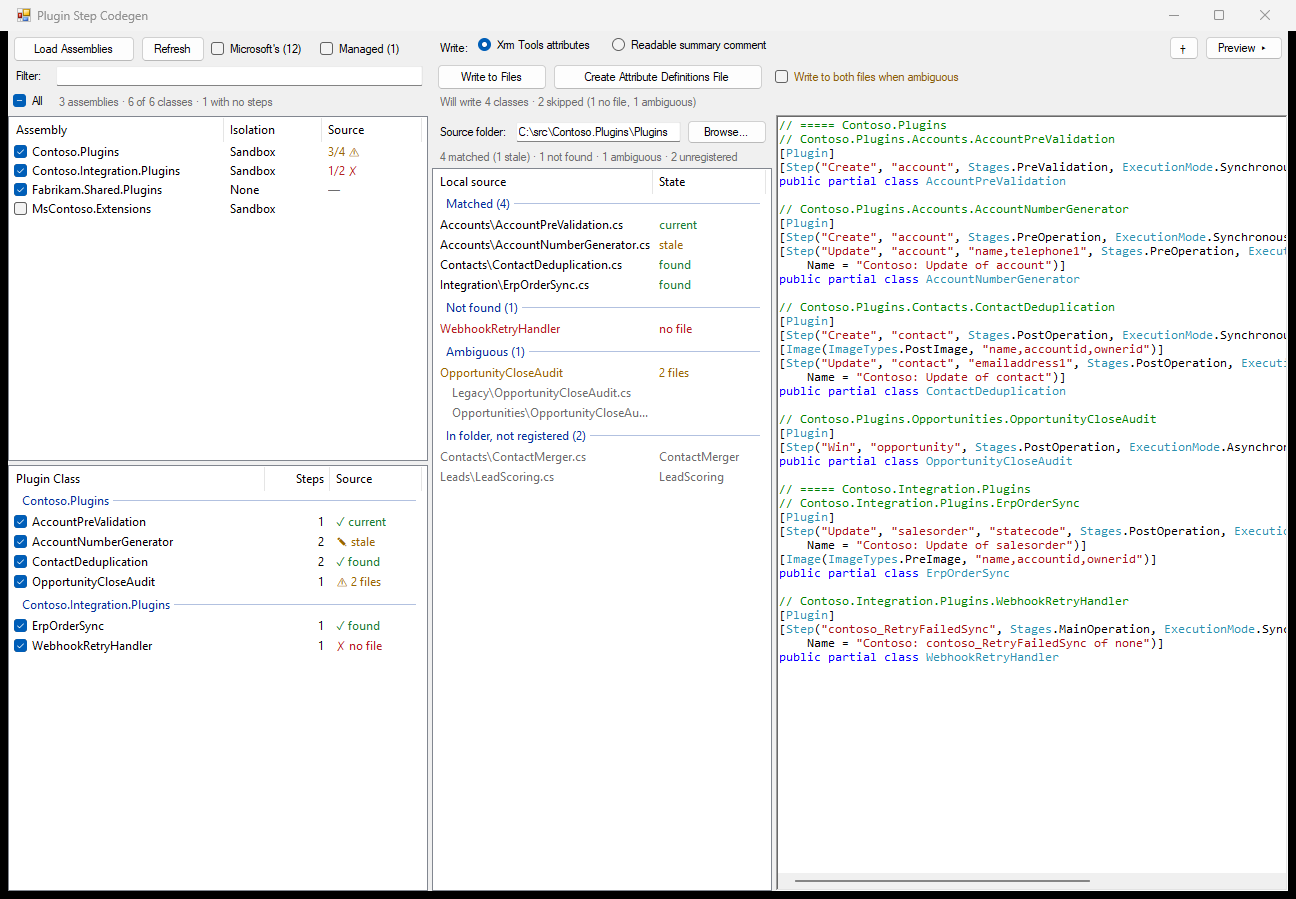
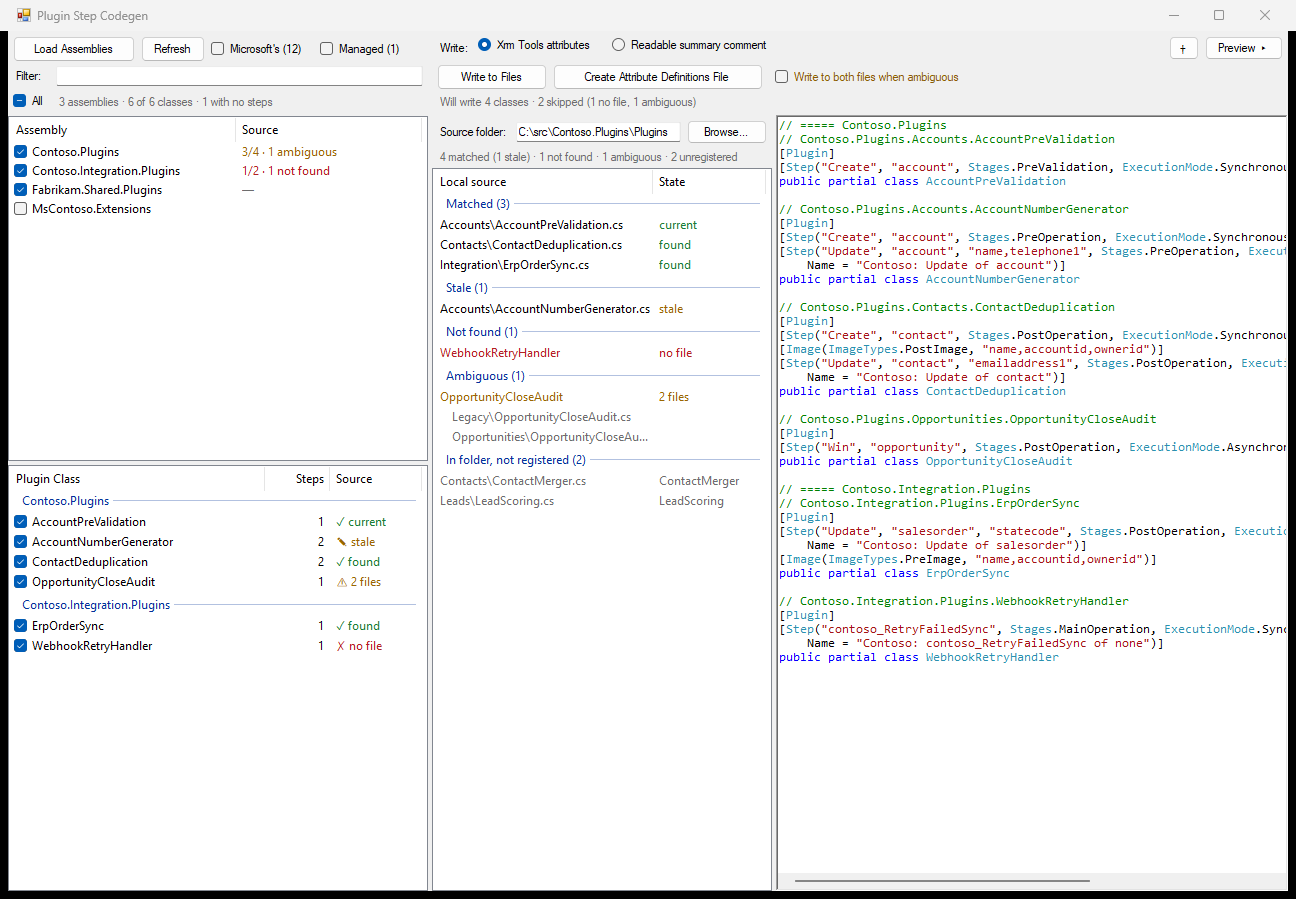
Spend the Isolation column's width on saying what is wrong
The Isolation column read "Sandbox" down every row anybody was shown:
Dataverse online forces it on everything that is not Microsoft's, and the
Microsoft switch hides the rows where it is not so. A quarter of the pane
for a constant, and a value this tool never emits. It is gone; an assembly
in full trust says so in the row's tooltip, which is the only time the
answer carries anything.

The Source column takes the width, and uses it for the half of the roll-up
that was missing. "3/4" with a glyph said how bad without saying which, so
the assembly had to be opened to learn whether it was a folder pointed
somewhere else or a decision waiting to be made. It now names the worst of
it in the class list's own words - "3/4 - 1 ambiguous" - with the full
breakdown in the tooltip, and counts stale files, which it never did.

Stale also gets a group in the ledger. It was a word on a row inside
Matched, and "what have I got to rewrite" is the one question in that pane
that a single press answers.

Staleness is now computed once per render and read by all three panes,
rather than each splicing every matched file to reach the same answer.

Claude-Session: https://claude.ai/code/session_01KEMWVgxV3t7Ntym6vZSJnw

Changed region(s): [[0.3395, 0.2492, 0.5556, 0.5606], [0.1543, 0.1246, 0.2778, 0.2492], [0.4938, 0.4983, 0.5864, 0.5606]]

diff --git a/PluginStepCodegen/PluginStepCodegenControl.cs b/PluginStepCodegen/PluginStepCodegenControl.cs
@@ -172,6 +172,13 @@ namespace PluginStepCodegen
         /// <summary>Set while one list's selection is being echoed into the other.</summary>
         private bool _syncingSelection;
 
+        /// <summary>
+        /// Classes whose file carries this tool's output and no longer agrees with the
+        /// registration, worked out once per render and read by all three panes. Recomputing it
+        /// per pane would splice every matched file twice more for the same answer.
+        /// </summary>
+        private readonly HashSet<Guid> _staleTypes = new HashSet<Guid>();
+
         private static readonly Color GlyphGreen = Color.FromArgb(26, 127, 55);
         private static readonly Color GlyphAmber = Color.FromArgb(154, 103, 0);
         private static readonly Color GlyphRed = Color.Firebrick;
@@ -338,12 +345,15 @@ namespace PluginStepCodegen
                 Font = _listFont
             };
             _lvAssemblies.Columns.Add("Assembly");
-            _lvAssemblies.Columns.Add("Isolation");
+            // No column for isolation. Dataverse online forces the sandbox on everything that is
+            // not Microsoft's, and the Microsoft switch hides the rows where that is not so, which
+            // left a quarter of the pane reading "Sandbox" all the way down. The rare answer is
+            // worth having, and the row's tooltip is where it now lives.
             _lvAssemblies.Columns.Add("Source");
             // The floor sits just under what the pane's own minimum leaves once a scrollbar has
             // taken its share, so the fallback to sideways scrolling is reserved for a pane
             // narrower than the splitter will allow.
-            ShareWidthBetweenColumns(_lvAssemblies, 230, 0.52f, 0.24f, 0.24f);
+            ShareWidthBetweenColumns(_lvAssemblies, 230, 0.55f, 0.45f);
             _lvAssemblies.ItemChecked += LvAssemblies_ItemChecked;
 
             _checkSettled = new Timer { Interval = 120 };
@@ -957,7 +967,6 @@ namespace PluginStepCodegen
                     Checked = _checkedAssemblies.Contains(assembly.Id),
                     UseItemStyleForSubItems = false
                 };
-                item.SubItems.Add(assembly.IsolationMode == 2 ? "Sandbox" : "None");
                 item.SubItems.Add(string.Empty);
                 _lvAssemblies.Items.Add(item);
             }
@@ -1606,6 +1615,7 @@ namespace PluginStepCodegen
         {
             var scan = _scan;
 
+            _staleTypes.Clear();
             _lvTypes.BeginUpdate();
             foreach (ListViewItem item in _lvTypes.Items)
             {
@@ -1613,10 +1623,15 @@ namespace PluginStepCodegen
                 ClassMatch match;
                 string glyph = string.Empty, words = string.Empty, detail = null;
                 var color = SystemColors.GrayText;
+                bool stale;
 
                 if (scan != null && scan.Matches.TryGetValue(type.Id, out match))
                 {
-                    Describe(type, match, out glyph, out words, out detail, out color);
+                    Describe(type, match, out glyph, out words, out detail, out color, out stale);
+                    if (stale)
+                    {
+                        _staleTypes.Add(type.Id);
+                    }
                 }
 
                 var cell = item.SubItems[2];
@@ -1642,8 +1657,10 @@ namespace PluginStepCodegen
         }
 
         /// <summary>One class's verdict, in every voice that reports it.</summary>
-        private void Describe(PluginTypeInfo type, ClassMatch match, out string glyph, out string words, out string detail, out Color color)
+        private void Describe(PluginTypeInfo type, ClassMatch match, out string glyph, out string words,
+            out string detail, out Color color, out bool stale)
         {
+            stale = false;
             switch (match.Kind)
             {
                 case MatchKind.NotFound:
@@ -1664,7 +1681,8 @@ namespace PluginStepCodegen
                 default:
                     var state = StateOf(type, match.Code);
                     var file = Relative(_scan.Folder, match.File);
-                    if (state == CodeFileWriter.WriteState.Stale)
+                    stale = state == CodeFileWriter.WriteState.Stale;
+                    if (stale)
                     {
                         glyph = GlyphStale;
                         words = "stale";
@@ -1695,13 +1713,13 @@ namespace PluginStepCodegen
             foreach (ListViewItem item in _lvAssemblies.Items)
             {
                 var assembly = (AssemblyInfo)item.Tag;
-                var cell = item.SubItems[2];
+                var cell = item.SubItems[1];
 
                 if (_typesInFlight.Contains(assembly.Id))
                 {
                     cell.Text = "…";
                     cell.ForeColor = SystemColors.GrayText;
-                    item.ToolTipText = "Reading its registered classes.";
+                    item.ToolTipText = RowNote(assembly, "Reading its registered classes.");
                     continue;
                 }
 
@@ -1709,7 +1727,7 @@ namespace PluginStepCodegen
                 if (!_typesByAssembly.TryGetValue(assembly.Id, out types))
                 {
                     cell.Text = string.Empty;
-                    item.ToolTipText = "Tick it to read what is registered in it.";
+                    item.ToolTipText = RowNote(assembly, "Tick it to read what is registered in it.");
                     continue;
                 }
 
@@ -1721,18 +1739,19 @@ namespace PluginStepCodegen
                 {
                     cell.Text = "—";
                     cell.ForeColor = SystemColors.GrayText;
-                    item.ToolTipText = "Registered, but no step is registered against any class in it.";
+                    item.ToolTipText = RowNote(assembly, "Registered, but no step is registered against any class in it.");
                     continue;
                 }
 
                 if (scan == null)
                 {
                     cell.Text = string.Empty;
-                    item.ToolTipText = types.Count + " classes. Choose the source folder to match them against.";
+                    item.ToolTipText = RowNote(assembly,
+                        types.Count + " classes. Choose the source folder to match them against.");
                     continue;
                 }
 
-                int found = 0, missing = 0, ambiguous = 0;
+                int found = 0, missing = 0, ambiguous = 0, stale = 0;
                 foreach (var type in types)
                 {
                     ClassMatch match;
@@ -1741,23 +1760,48 @@ namespace PluginStepCodegen
                         continue;
                     }
 
-                    if (match.Kind == MatchKind.Found) found++;
+                    if (match.Kind == MatchKind.Found)
+                    {
+                        found++;
+                        if (_staleTypes.Contains(type.Id)) stale++;
+                    }
                     else if (match.Kind == MatchKind.Ambiguous) ambiguous++;
                     else missing++;
                 }
 
-                var glyph = missing > 0 ? GlyphMissing : ambiguous > 0 ? GlyphAmbiguous : GlyphFound;
-                cell.Text = found + "/" + types.Count + " " + glyph;
-                cell.ForeColor = missing > 0 ? GlyphRed : ambiguous > 0 ? GlyphAmber : GlyphGreen;
+                // The worst of it in words rather than as a mark. A glyph says how bad without
+                // saying which, and "no file" and "declared in two files" are two different
+                // afternoons - one is a folder pointed somewhere else, the other is a decision
+                // only the reader can make. Said here rather than found by opening the group.
+                // The words are the class list's own, so the two panes never disagree.
+                var worst = missing > 0 ? missing + " not found"
+                    : ambiguous > 0 ? ambiguous + " ambiguous"
+                    : stale > 0 ? stale + " stale"
+                    : string.Empty;
 
-                // The glyph says how bad it is and never which it is: two classes with no file and
-                // two declared twice wear the same mark. Asked here rather than opened to find out.
+                cell.Text = found + "/" + types.Count + (worst.Length == 0 ? string.Empty : " · " + worst);
+                cell.ForeColor = missing > 0 ? GlyphRed : ambiguous > 0 || stale > 0 ? GlyphAmber : GlyphGreen;
+
+                // The cell has room for the worst one only; the rest are here.
                 var trouble = new List<string>();
                 if (missing > 0) trouble.Add(missing + " with no file");
                 if (ambiguous > 0) trouble.Add(ambiguous + " declared in more than one file");
-                item.ToolTipText = found + " of " + types.Count + " classes matched to a file"
-                    + (trouble.Count == 0 ? "." : " · " + string.Join(" · ", trouble));
+                if (stale > 0) trouble.Add(stale + " written before and now out of date");
+                item.ToolTipText = RowNote(assembly, found + " of " + types.Count + " classes matched to a file"
+                    + (trouble.Count == 0 ? "." : " · " + string.Join(" · ", trouble)));
             }
+        }
+
+        /// <summary>
+        /// A row's tooltip: what its cell means, and the one thing the Isolation column was there
+        /// for. Sandbox is every row's answer on Dataverse online, which is why it is no longer a
+        /// column; anything else is a real surprise and is worth the line.
+        /// </summary>
+        private static string RowNote(AssemblyInfo assembly, string state)
+        {
+            return assembly.IsolationMode == 2
+                ? state
+                : state + "\r\nRegistered outside the sandbox, in full trust.";
         }
 
         /// <summary>
@@ -1780,7 +1824,13 @@ namespace PluginStepCodegen
                     .Select(t => new { Type = t, Match = scan.Matches[t.Id] })
                     .ToList();
 
+                // Stale is a state of a matched file rather than a fourth kind of match, and it
+                // is the only one the reader can act on with one press: these are exactly the
+                // files Write is about to change. Inside "Matched" it was a word on a row, which
+                // is no way to answer "what have I got to rewrite".
                 var matched = verdicts.Where(v => v.Match.Kind == MatchKind.Found).ToList();
+                var stale = matched.Where(v => _staleTypes.Contains(v.Type.Id)).ToList();
+                var current = matched.Where(v => !_staleTypes.Contains(v.Type.Id)).ToList();
                 var missing = verdicts.Where(v => v.Match.Kind == MatchKind.NotFound).ToList();
                 var ambiguous = verdicts.Where(v => v.Match.Kind == MatchKind.Ambiguous).ToList();
 
@@ -1794,7 +1844,8 @@ namespace PluginStepCodegen
                 // as long as the rows are held back.
                 var waiting = Outstanding;
 
-                var groupMatched = new ListViewGroup("Matched (" + matched.Count + ")");
+                var groupMatched = new ListViewGroup("Matched (" + current.Count + ")");
+                var groupStale = new ListViewGroup("Stale (" + stale.Count + ")");
                 var groupMissing = new ListViewGroup("Not found (" + missing.Count + ")");
                 var groupAmbiguous = new ListViewGroup("Ambiguous (" + ambiguous.Count + ")");
                 // Split rather than counted together: one is a class nobody registered, the other
@@ -1811,16 +1862,18 @@ namespace PluginStepCodegen
                     : "In folder, not registered (" + unregistered.Count + ")");
                 _lvSource.Groups.AddRange(new[]
                 {
-                    groupMatched, groupMissing, groupAmbiguous, groupStepless, groupUnregistered
+                    groupMatched, groupStale, groupMissing, groupAmbiguous, groupStepless, groupUnregistered
                 });
 
                 foreach (var v in matched)
                 {
                     string glyph, words, detail;
                     Color color;
-                    Describe(v.Type, v.Match, out glyph, out words, out detail, out color);
+                    bool isStale;
+                    Describe(v.Type, v.Match, out glyph, out words, out detail, out color, out isStale);
 
-                    var item = new ListViewItem(Relative(scan.Folder, v.Match.File), groupMatched)
+                    var item = new ListViewItem(Relative(scan.Folder, v.Match.File),
+                        isStale ? groupStale : groupMatched)
                     {
                         Tag = v.Type.Id,
                         ToolTipText = v.Type.TypeName + "\r\n" + detail,
@@ -1919,7 +1972,7 @@ namespace PluginStepCodegen
                 {
                     case MatchKind.Found:
                         matched++;
-                        if (StateOf(type, match.Code) == CodeFileWriter.WriteState.Stale)
+                        if (_staleTypes.Contains(type.Id))
                         {
                             stale++;
                         }

diff --git a/CHANGELOG.md b/CHANGELOG.md
@@ -12,12 +12,25 @@
 
   ![The two groups, side by side](assets/changelog-no-steps.png)
 
-- **The assembly rows say what their Source cell means.** Three of its states are blanks
-  that look alike — not ticked yet, no source folder chosen, nothing registered in the
-  assembly — and the roll-up's glyph says how bad the news is without saying which news it
-  is. Every state now answers when the row is hovered, and an assembly with no step
-  registered against anything in it reads `—` as soon as it is ticked, rather than staying
-  blank until a folder is chosen.
+- **The assembly list traded a constant for an answer.** Its **Isolation** column read
+  `Sandbox` down every row you were shown — Dataverse online forces it on everything that is
+  not Microsoft's, and the **Microsoft's** switch hides the rows where it does not — so a
+  quarter of the pane was spent saying the same word. It is gone, an assembly registered in
+  full trust says so in its tooltip, and the Source column got the width. What it spends it
+  on is the thing the roll-up would not say: `3/4 ✗` told you how bad it was without telling
+  you which, and *no file* and *declared in two files* are two different afternoons.
+
+  ![The assembly rows, naming the trouble](assets/changelog-assembly-rollup.png)
+
+  Its three empty states — not ticked yet, no source folder chosen, nothing registered in the
+  assembly — also answer when hovered, and the last of them reads `—` as soon as the row is
+  ticked rather than staying blank until a folder is chosen.
+
+- **Stale files have a group of their own.** They sat inside **Matched**, marked with a word
+  on the row, which is no way to answer "what have I got to rewrite" — the one question in
+  that pane you can act on with a single press.
+
+  ![The Stale group, under Matched](assets/changelog-stale-group.png)
 
 - **The tool behaves itself on a slow link.** XrmToolBox draws a small panel in the middle of
   a tool while it waits on the environment — not a sheet over the whole tab — so every button

diff --git a/docs/choosing-assemblies.md b/docs/choosing-assemblies.md
@@ -1,4 +1,4 @@
-# Choosing assemblies
+# Choosing assemblies
 
 An environment carries dozens of plugin assemblies and one or two of yours. **Load
 Assemblies** loads all of them and then shows you the short list, because the long one is
@@ -68,12 +68,27 @@ The **All** box speaks for the rows on screen, not for the environment, so filte
 your own name and hitting **All** means all of yours. When some but not all of the visible
 rows are ticked it goes indeterminate rather than checked.
 
-## The Isolation column
+## The Source column
 
-`Sandbox` or `None`, straight off the assembly record. Dataverse online forces sandbox
-isolation on everything that is not Microsoft's, so in practice every row of yours says
-Sandbox; `None` shows up on-premises and on assemblies Microsoft ships into the platform
-itself.
+The assembly's share of what the source folder scan found, as `matched/total` and the worst
+thing among them — `8/8`, `7/8 · 1 not found`, `6/8 · 2 ambiguous`, `8/8 · 1 stale`. Green
+means there is nothing to say, amber that something needs a decision, red that a class has
+no file at all. Hovering the row gives the whole breakdown rather than the worst of it.
+
+Three of its states are empty rather than a count, and the row's tooltip says which:
+
+| Cell | Means |
+|---|---|
+| *(blank)* | Not ticked yet, or no source folder chosen |
+| `…` | Its classes are still being read |
+| `—` | Registered, but no step is registered against anything in it |
+
+## Isolation
+
+There is no column for it. Dataverse online forces sandbox isolation on everything that is
+not Microsoft's, so the column said `Sandbox` down every row you were shown while the
+exceptions sat behind the **Microsoft's** switch. An assembly registered in full trust —
+which happens on-premises — says so in its tooltip instead.
 
 ## What is never listed
 

diff --git a/tests/README.md b/tests/README.md
@@ -1068,13 +1068,14 @@ Worth knowing what the suite does *not* pin, so a gap is not mistaken for a pass
 - **A real Microsoft signature.** See above; it cannot be faked and is left to the
   environment's own first party assemblies.
 - **`isolationmode` "None".** Online forces sandbox for everything that is not Microsoft's,
-  so the other value in the Isolation column is not reachable in a Developer environment.
+  so the tooltip line about full trust is not reachable in a Developer environment.
 - **`ishidden` assemblies.** The tool filters them out and the fixture cannot make
   one: `IsHidden` is not in the solution schema for a plugin assembly.
 - **Custom API handlers and workflow activities.** Both are plugin types with no
-  `sdkmessageprocessingstep`, so the tool drops them and is silently blind to them. That is
-  a gap in the tool rather than in the fixture, and pinning it should follow a decision
-  about what it ought to do.
+  `sdkmessageprocessingstep`, so the tool has nothing to document for them. It is no longer
+  silent about them - their files are listed under **Registered, no steps** rather than
+  called unregistered - but it still cannot say what they are. Pinning that should follow a
+  decision about what it ought to do.
 - **Assemblies delivered as a plugin package.** The NuGet route registers a
   `pluginpackage`, which nothing in the tool queries.
 - **An unmanaged assembly that is also named Microsoft.** `IsMicrosoft` is asked before
